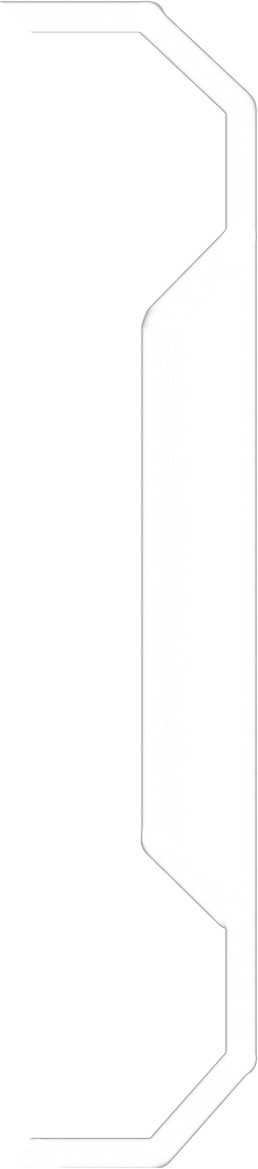
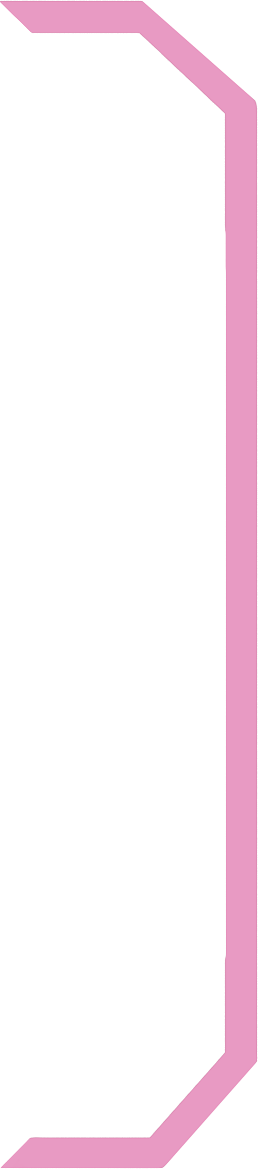
feat: readded changes to dynamic page before error

Changed region(s): [[0.0, 0.0, 1.0, 1.0], [0.5271, 0.2772, 0.5891, 0.7391], [0.5581, 0.2464, 0.5891, 0.2772]]

diff --git a/src/components/2024/about/DynamicPage.tsx b/src/components/2024/about/DynamicPage.tsx
@@ -1,4 +1,4 @@
-import { useEffect } from "react";
+import { useEffect, useState } from "react";
 import gsap from "gsap";
 import { ScrollTrigger } from "gsap/ScrollTrigger";
 
@@ -6,7 +6,7 @@ gsap.registerPlugin(ScrollTrigger);
 
 function Avatar() {
   return (
-    <div className="avatar group flex h-[40vh] w-[20vw] flex-col items-center justify-center rounded-lg bg-slate-600">
+    <div className="avatar group flex h-[35vh] w-[35vh] flex-col items-center justify-center rounded-lg bg-slate-600">
       <img
         className="h-[50%] cursor-pointer rounded-full hover:scale-105"
         src="/about/pfp.png"
@@ -18,115 +18,143 @@ function Avatar() {
 }
 function Links() {
   return (
-    <div className="socials relative h-[16.5vw] w-[25vw] rounded-lg">
-      <div className="w-25w absolute flex h-[16.5vw] flex-col items-start justify-evenly p-10">
-        <div className="flex w-[25vw] justify-evenly text-2xl">
-          <div className="logo">
-            <img src="" alt="" />
-            <h1>Github: </h1>
+    <div className="socials mt-5 h-[25vh] w-[90%] max-w-[400px] rounded-lg shadow-lg sm:w-[60%] md:w-[45%] lg:w-[25vw]">
+      <div className="flex h-full w-full flex-col items-start justify-evenly">
+        <img
+          src="/about/profilepage/socialHud.png"
+          className="absolute h-[25vh] w-[90vw] max-w-[400px] sm:w-[60%] md:w-[45%] lg:w-[25vw]"
+          alt="Social HUD"
+        />
+        <div className="relative flex w-full items-center justify-between text-lg sm:text-xl md:text-2xl">
+          <div className="ml-5 flex items-center gap-1">
+            <img src="" alt="Github logo" className="h-6 w-6" />
+            <h1>Github:</h1>
           </div>
-          <h1>Kourai930</h1>
+          <h1 className="mr-5">Kourai930</h1>
         </div>
-        <div className="flex w-[25vw] justify-evenly text-2xl">
-          <div className="logo">
-            <img src="" alt="" />
-            <h1>LinkedIN: </h1>
+        <div className="flex w-full items-center justify-between text-lg sm:text-xl md:text-2xl">
+          <div className="ml-5 flex items-center gap-1">
+            <img src="" alt="LinkedIn logo" className="h-6 w-6" />
+            <h1>LinkedIn:</h1>
           </div>
-          <h1>Kourai930</h1>
+          <h1 className="mr-5">Kourai930</h1>
         </div>
-        <div className="flex w-[25vw] justify-evenly text-2xl">
-          <div className="logo">
-            <img src="" alt="" />
-            <h1>Facebook: </h1>
+        <div className="flex w-full items-center justify-between text-lg sm:text-xl md:text-2xl">
+          <div className="ml-5 flex items-center">
+            <img src="" alt="Facebook logo" className="h-6 w-6" />
+            <h1>Facebook:</h1>
           </div>
-          <h1>Kourai930</h1>
+          <h1 className="mr-5">Luigi Karl Limos</h1>
         </div>
       </div>
-      <img
-        src="/about/profilepage/socialHud.png "
-        className="absolute h-[16.5vw] w-[25vw]"
-        alt=""
-      />
-      <img
-        src="/about/profilepage/bars.png"
-        className="absolute left-[1.35vw] w-[13.35vw]"
-        alt=""
-      />
     </div>
   );
 }
 
 function Info() {
   return (
-    <div className="details relative h-[50%] w-[55%] rounded-lg">
-      <div className="absolute flex h-full w-full flex-col items-start justify-evenly p-10">
-        <h2 className="text-2xl text-white">full name: Luigi Karl B. Limos</h2>
-        <p className="text-2xl text-white">Role: Intern</p>
-        <p className="text-2xl text-white">Phone: 09456176976</p>
-        <p className="text-2xl text-white">Email: luigikarlblimos@gmail.com</p>
+    <div className="details h-auto w-[90%] max-w-[500px] overflow-hidden rounded-lg shadow-lg sm:w-[75%] md:w-[60%] lg:w-[55%]">
+      <div className="flex h-full w-full flex-col items-start justify-evenly p-5 sm:p-8 md:p-10">
+        <h2 className="text-lg text-white sm:text-xl md:text-2xl">
+          Full Name: Luigi Karl B. Limos
+        </h2>
+        <p className="text-lg text-white sm:text-xl md:text-2xl">
+          Role: Intern
+        </p>
+        <p className="text-lg text-white sm:text-xl md:text-2xl">
+          Phone: 09456176976
+        </p>
+        <p className="text-lg text-white sm:text-xl md:text-2xl">
+          Email: luigikarlblimos@gmail.com
+        </p>
       </div>
-      <img className="h-full w-full" src="/about/profilepage/info.png" alt="" />
+      <img
+        className="h-full w-full object-cover"
+        src="/about/profilepage/info.png"
+        alt="Profile"
+      />
     </div>
   );
 }
 
 export default function UserProfile() {
-  useEffect(() => {
-    let tl = gsap.timeline();
+  const [animationWidth, setAnimationWidth] = useState(0);
 
+  // Function to get the animation width for centering
+  function getAnimationWidth() {
+    const frame = document.querySelector(".rightSide");
+    if (!frame) return 0;
+    let width = frame.offsetWidth;
+    return window.innerWidth / 2 - width;
+  }
+
+  //Update the animationWidth on component mount and resize
+  useEffect(() => {
+    const updateWidth = () => {
+      setAnimationWidth(getAnimationWidth());
+    };
+
+    updateWidth(); // Initial width calculation
+
+    window.addEventListener("resize", updateWidth); // Listen for resize events
+
+    return () => {
+      window.removeEventListener("resize", updateWidth); // Cleanup listener
+    };
+  }, []);
+
+  // GSAP animation for leftSide and rightSide
+  useEffect(() => {
+    const frame = document.querySelector(".rightSide");
+    if (!frame) return;
+
+    let width = frame.offsetWidth;
+    let centerX = window.innerWidth / 2 - width / 2; // Calculate center
+    let tl = gsap.timeline();
     tl.to(".leftSide", {
-      duration: 0.5,
-      x: "-41vw",
+      x: -getAnimationWidth(),
+      duration: 1,
       ease: "power2.out",
     })
       .to(
         ".rightSide",
-        {
-          duration: 0.5,
-          x: "41vw",
-          ease: "power2.out",
-        },
-        0,
+        { x: getAnimationWidth(), duration: 1, ease: "power2.out" },
+        0, // Sync both animations
       )
       .to(
-        ".backgroundEffect", // Grow the background div
-        {
-          duration: 0.5,
-          scaleX: 1, // Grow to full size
-          ease: "power2.out",
-        },
-        0, // Start at the same time as leftSide & rightSide
+        ".backgroundEffect",
+        { duration: 1, scaleX: 1, ease: "power2.out" },
+        0,
       )
+      .to(".grids", { opacity: 1, ease: "power2.out", delay: 0.5 }, 0);
+  }, [animationWidth]); // Re-run animation when animationWidth changes
 
-      .to(".grids", {
-        opacity: 1,
-        ease: "power2.out",
-        delay: 0.5,
-      });
-  }, []);
   return (
-    <div className="relative h-screen w-full">
+    <section className="relative h-screen w-full overflow-hidden">
       <div className="backgroundEffect absolute inset-0 origin-center scale-x-0 bg-[radial-gradient(circle,rgba(0,255,255,0.2),rgba(0,0,0,0.8))]"></div>
       <div className="grids absolute inset-0 bg-[linear-gradient(transparent_95%,rgba(255,255,255,0.2)),linear-gradient(90deg,transparent_95%,rgba(255,255,255,0.2))] bg-[size:50px_50px] opacity-0"></div>
-      <div className="absolute flex h-[100vh] w-[100vw] items-center justify-evenly">
-        <div className="flex h-full flex-col items-center justify-evenly">
-          <Avatar />
-          <Links />
+      <div className="absolute h-[100vh] w-full">
+        <div className="flex h-full w-full items-center justify-center sm:flex-col md:flex-row">
+          <div className="flex h-full w-full flex-col items-center justify-center">
+            <Avatar />
+            <Links />
+          </div>
         </div>
-        <Info />
       </div>
-      <div className="pageFrame absolute flex w-[100vw]">
-        <img
-          className="leftSide absolute left-[41vw] h-[100vh] w-[9vw] scale-x-[-1]"
-          src="/about/profilepage/pageFrame.png"
-          alt=""
-        />
-        <img
-          className="rightSide absolute left-[50vw] h-[100vh] w-[9vw]"
-          src="/about/profilepage/pageFrame.png"
-          alt=""
-        />
+      <div className="pageFrame absolute w-[100vw]">
+        <div className="flex w-full justify-center">
+          <img
+            className="leftSide h-[100vh] w-[12%] min-w-[96px] scale-x-[-1] drop-shadow-[0_0_15px_rgba(0,255,255,0.8)]"
+            src="/about/profilepage/pageFrame.png"
+            alt=""
+          />
+          <img
+            className="rightSide h-[100vh] w-[12%] min-w-[96px] drop-shadow-[0_0_15px_rgba(0,255,255,0.8)]"
+            src="/about/profilepage/pageFrame.png"
+            alt=""
+          />
+        </div>
       </div>
-    </div>
+    </section>
   );
 }
